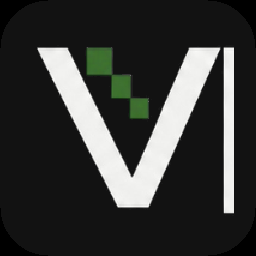
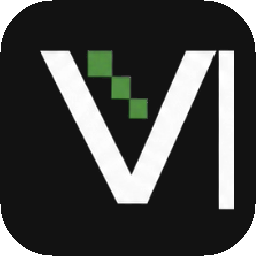
fix: generate true transparent RGBA PNG assets for light and dark modes with zero white box artifact

diff --git a/app/icon.tsx b/app/icon.tsx
@@ -18,7 +18,7 @@ export default function Icon() {
         }}
       >
         <img
[2 lines of base64/hex data omitted]
           width={22}
           height={21}
           style={{ objectFit: 'contain' }}

diff --git a/public/test-preview.html b/public/test-preview.html
@@ -1,0 +1,24 @@
+<!DOCTYPE html>
+<html>
+<head>
+<style>
+  body { margin: 0; padding: 40px; font-family: sans-serif; display: flex; flex-direction: column; gap: 40px; }
+  .dark { background: #121212; padding: 30px; border-radius: 12px; }
+  .light { background: #F9F9F7; padding: 30px; border-radius: 12px; }
+  img { height: 32px; width: auto; }
+</style>
+</head>
+<body>
+  <div class="dark">
+    <h3>Dark Background (#121212)</h3>
+    <img src="brand/alevate-logo-white.png" />
+    <img src="brand/alevate-mark-white.png" />
+    <img src="brand/alevate-favicon.png" />
+  </div>
+  <div class="light">
+    <h3>Light Background (#F9F9F7)</h3>
+    <img src="brand/alevate-logo.png" />
+    <img src="brand/alevate-mark.png" />
+  </div>
+</body>
+</html>
